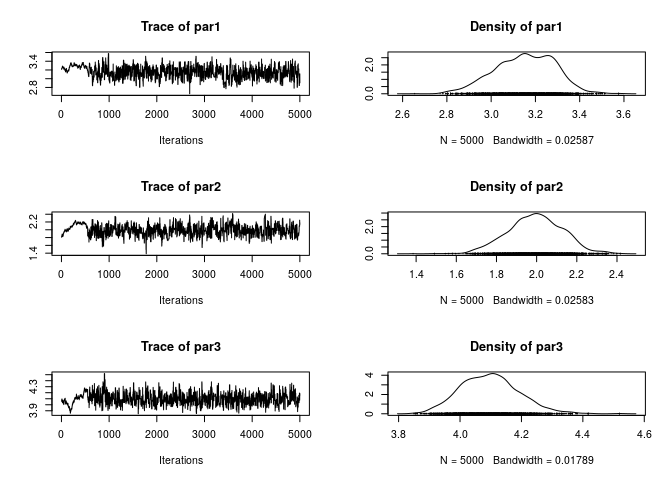
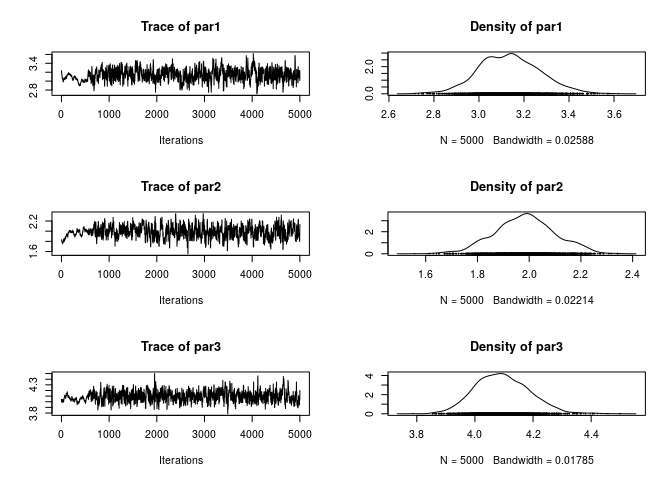
Fixing bug in RAM, adding more references and tests. New vignette on the works

diff --git a/README.md b/README.md
@@ -243,7 +243,7 @@ plot(ans_RAM)
 ```
 
     ##      par1      par2      par3 
-    ## 0.3510702 0.3510702 0.3510702
+    ## 0.3512703 0.3512703 0.3512703
 
 We can also try using Haario et al (2001) Adaptive Metropolis
 
@@ -266,7 +266,7 @@ plot(ans_AM)
 ```
 
     ##      par1      par2      par3 
-    ## 0.3832767 0.3832767 0.3832767
+    ## 0.5357071 0.5357071 0.5357071
 
 ## Automatic stop
 
